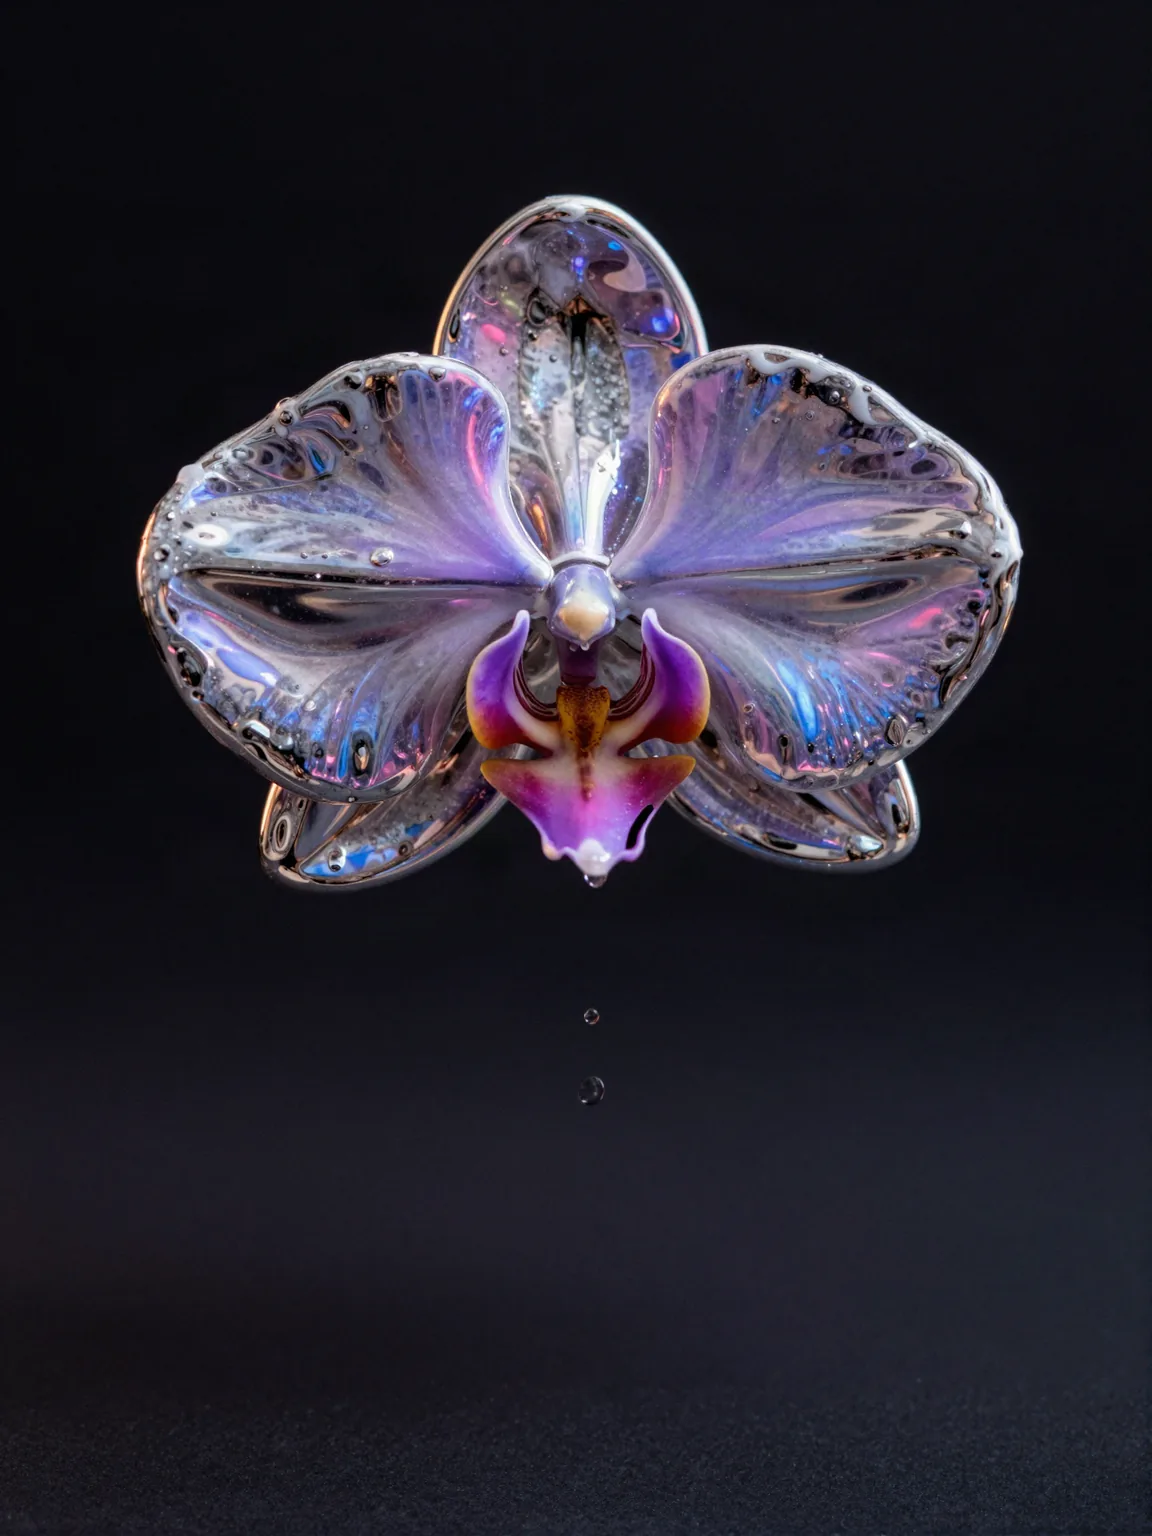
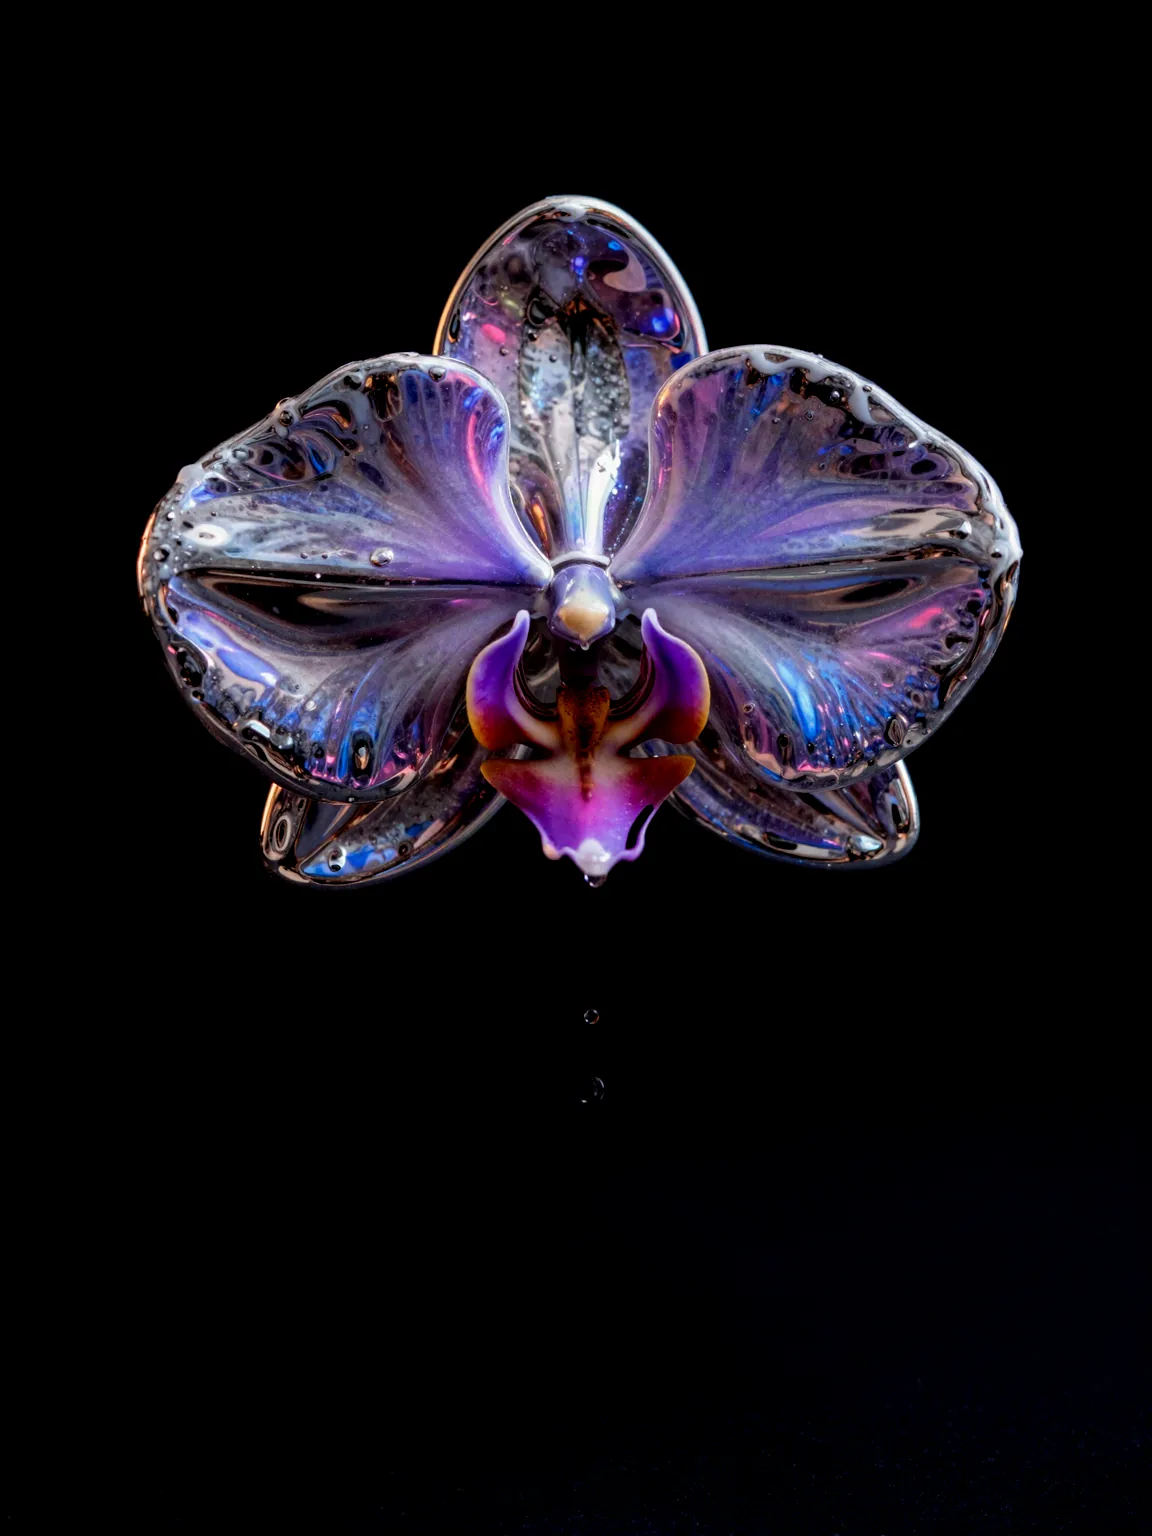
feat: About orchid floats free (no card), with tag and signature
The orchid's grey backdrop is crushed to pure black and the screen blend
sits on the figure (a GSAP transform there isolates anything inside).

diff --git a/src/components/About.tsx b/src/components/About.tsx
@@ -3,7 +3,8 @@
 import { useRef } from "react";
 import { gsap, useGSAP, prefersReducedMotion } from "@/lib/gsap";
 import { about } from "@/data/site";
-import ArtSlot from "./motifs/ArtSlot";
+import Cutout from "./motifs/Cutout";
+import Tag from "./hud/Tag";
 import Seam from "./motifs/Seam";
 import Folio from "./motifs/Folio";
 import ModuleLabel from "./motifs/ModuleLabel";
@@ -27,10 +28,12 @@ export default function About() {
         },
       );
       gsap.fromTo(
-        `.${styles.portrait}`,
-        { scale: 0.94, opacity: 0 },
-        { scale: 1, opacity: 1, duration: 1.2, ease: "power3.out", scrollTrigger: { trigger: root.current, start: "top 70%" } },
+        `.${styles.still}`,
+        { opacity: 0, y: 30 },
+        { opacity: 1, y: 0, duration: 1.2, ease: "power3.out", scrollTrigger: { trigger: root.current, start: "top 70%" } },
       );
+      // the orchid drifts slowly, like it's floating
+      gsap.to(`.${styles.orchid}`, { y: -8, duration: 3, ease: "sine.inOut", yoyo: true, repeat: -1 });
       gsap.from(`.${styles.seam}`, {
         scaleX: 0,
         scaleY: 0,
@@ -58,22 +61,19 @@ export default function About() {
       <div className={styles.glow} aria-hidden="true" />
       <div className={`${styles.grid} web-grid`} aria-hidden="true" />
 
-      <figure className={`${styles.portrait} glass`}>
-        <figcaption className={styles.portraitHead}>
-          <span>{about.portrait.label}</span>
-          <span className="fig-art">{about.portrait.fig}</span>
-        </figcaption>
-        <ArtSlot
-          label="[ portrait / still of you ]"
-          src={about.portrait.src || undefined}
+      <figure className={styles.still}>
+        <Cutout
+          src={about.portrait.src}
           alt={about.portrait.alt}
-          sizes="(max-width: 900px) 100vw, 40vw"
-          className={styles.portraitBody}
+          mode="screen"
+          sizes="(max-width: 900px) 100vw, 45vw"
+          className={styles.orchid}
         />
-        <div className={styles.portraitFoot}>
+        <Tag label={about.portrait.fig} x={70} y={88} to={{ x: 52, y: 62 }} side="collide" phone={{ x: 0, y: 2 }} />
+        <figcaption className={styles.stillFoot}>
           <span className={styles.sig}>Uefa</span>
           <span>ACS · KMUTT · Thailand</span>
-        </div>
+        </figcaption>
       </figure>
 
       <Seam direction="auto" className={styles.seam} />

diff --git a/src/components/About.module.css b/src/components/About.module.css
@@ -36,38 +36,33 @@
   mask-image: linear-gradient(to right, transparent, #000 30%);
 }
 
-.portrait {
+/* the orchid floats free across the seam (spans the portrait and seam columns).
+   The screen blend sits on the figure, not the image: GSAP's entrance leaves a transform here,
+   which isolates anything inside, so a blend on the image would only mix with this box. */
+.still {
   position: relative;
-  grid-column: 1;
+  grid-column: 1 / 3;
+  grid-row: 1;
   margin: 0;
   height: 640px;
-  display: flex;
-  flex-direction: column;
-  border-color: rgba(255, 255, 255, 0.14);
+  mix-blend-mode: screen;
 }
-.portraitHead,
-.portraitFoot {
+.orchid {
+  position: absolute;
+  inset: -40px -12% 64px -4%;
+}
+.stillFoot {
+  position: absolute;
+  left: 0;
+  bottom: 0;
   display: flex;
-  justify-content: space-between;
   align-items: baseline;
-  padding: 12px 20px;
+  gap: 18px;
   font-family: var(--mono);
   font-size: 11px;
   color: var(--muted);
   text-transform: uppercase;
   letter-spacing: 1.5px;
-}
-.portraitHead {
-  border-bottom: 1px solid rgba(255, 255, 255, 0.1);
-}
-.portraitFoot {
-  padding: 16px 20px;
-  border-top: 1px solid rgba(255, 255, 255, 0.1);
-}
-.portrait .portraitBody {
-  flex: 1;
-  min-height: 0;
-  margin: 16px;
 }
 .sig {
   font-family: var(--display);
@@ -80,6 +75,7 @@
 /* seam in the empty middle column, between the art page (portrait) and the web page (text) */
 .seam {
   grid-column: 2;
+  grid-row: 1;
   justify-self: center;
   transform-origin: top left;
 }
@@ -148,9 +144,12 @@
     flex-direction: column;
     padding: 72px var(--gutter) 56px;
   }
-  .portrait {
+  .still {
     height: 420px;
     order: 2;
+  }
+  .orchid {
+    inset: 0 0 48px;
   }
   .seam {
     order: 2;

diff --git a/src/data/site.ts b/src/data/site.ts
@@ -88,12 +88,11 @@ export const site = {
 export const about = {
   statement: "I build web things that feel like something.",
   highlight: "feel",
-  // the About frame: a photo or self-portrait of you, or a stand-in until then.
-  // For a real portrait use label "Portrait", fig "Fig. 02 — Art" and alt "Portrait of Uefa".
+  // the image beside About: a photo of you, or a stand-in until then (floats free, no card).
+  // Keep "AI" in fig while it's generated. A black background blends away (screen blend).
   portrait: {
     src: "/art/about.webp",
-    label: "Still life",
-    fig: "Fig. 02 — Chrome orchid · AI",
+    fig: "Fig. 02 — Still life · AI",
     alt: "AI-generated image: an orchid made of polished chrome, dripping, on black",
   },
   body: [

diff --git a/src/components/motifs/Cutout.tsx b/src/components/motifs/Cutout.tsx
@@ -4,7 +4,9 @@ import styles from "./Motifs.module.css";
 const MODE = { fade: styles.cutoutFade, screen: styles.cutoutScreen, alpha: styles.cutoutAlpha };
 
 // A picture with no frame. "fade" dissolves its edges into the page, "screen" drops a black
-// background (objects shot on black) and "alpha" is for cut-outs with a transparent background.
+// background (objects shot on pure black) and "alpha" is for cut-outs with a transparent background.
+// "screen" only blends with what's behind it inside the nearest stacking context: if a parent
+// has a transform/opacity/filter (e.g. a GSAP entrance), set mix-blend-mode: screen on that parent.
 export default function Cutout({
   src,
   alt,
